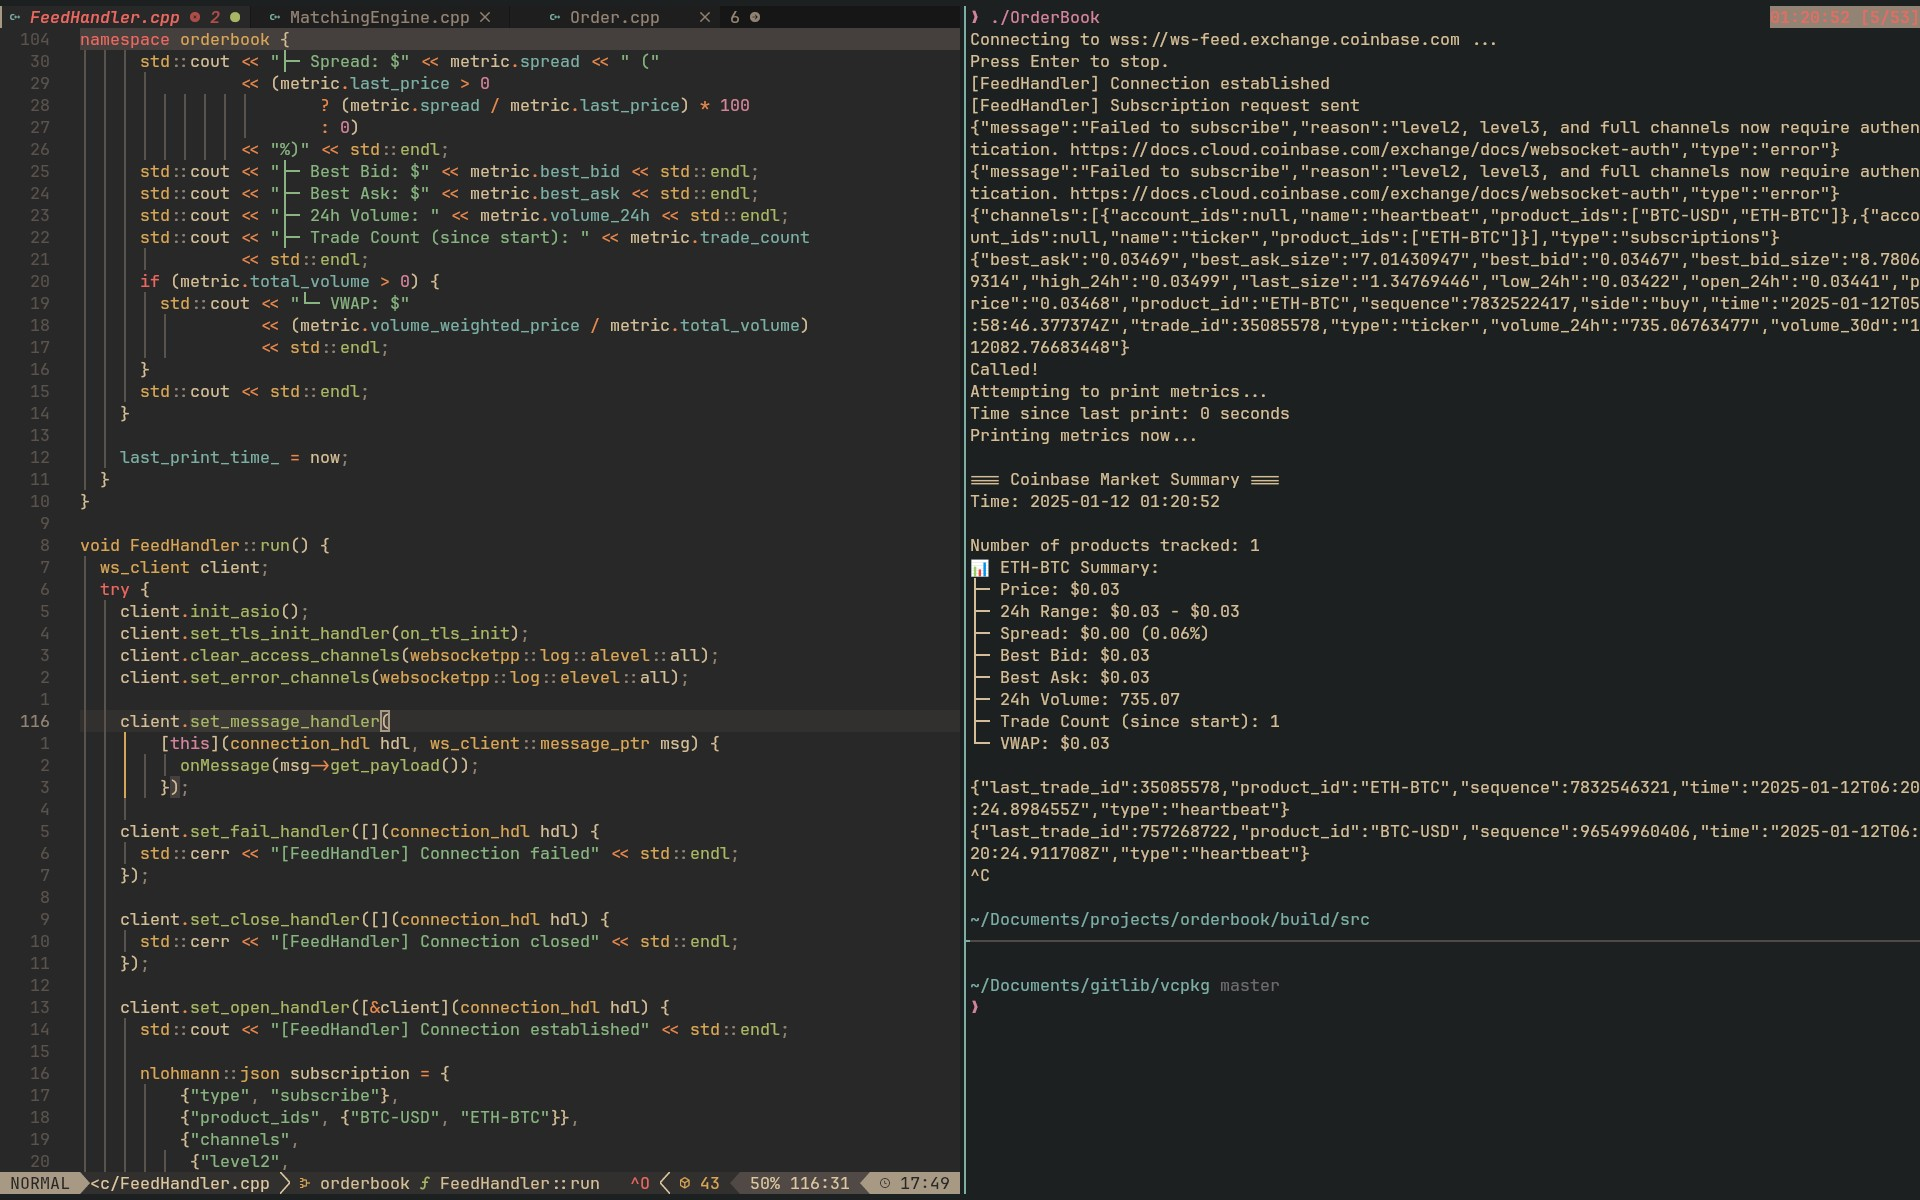
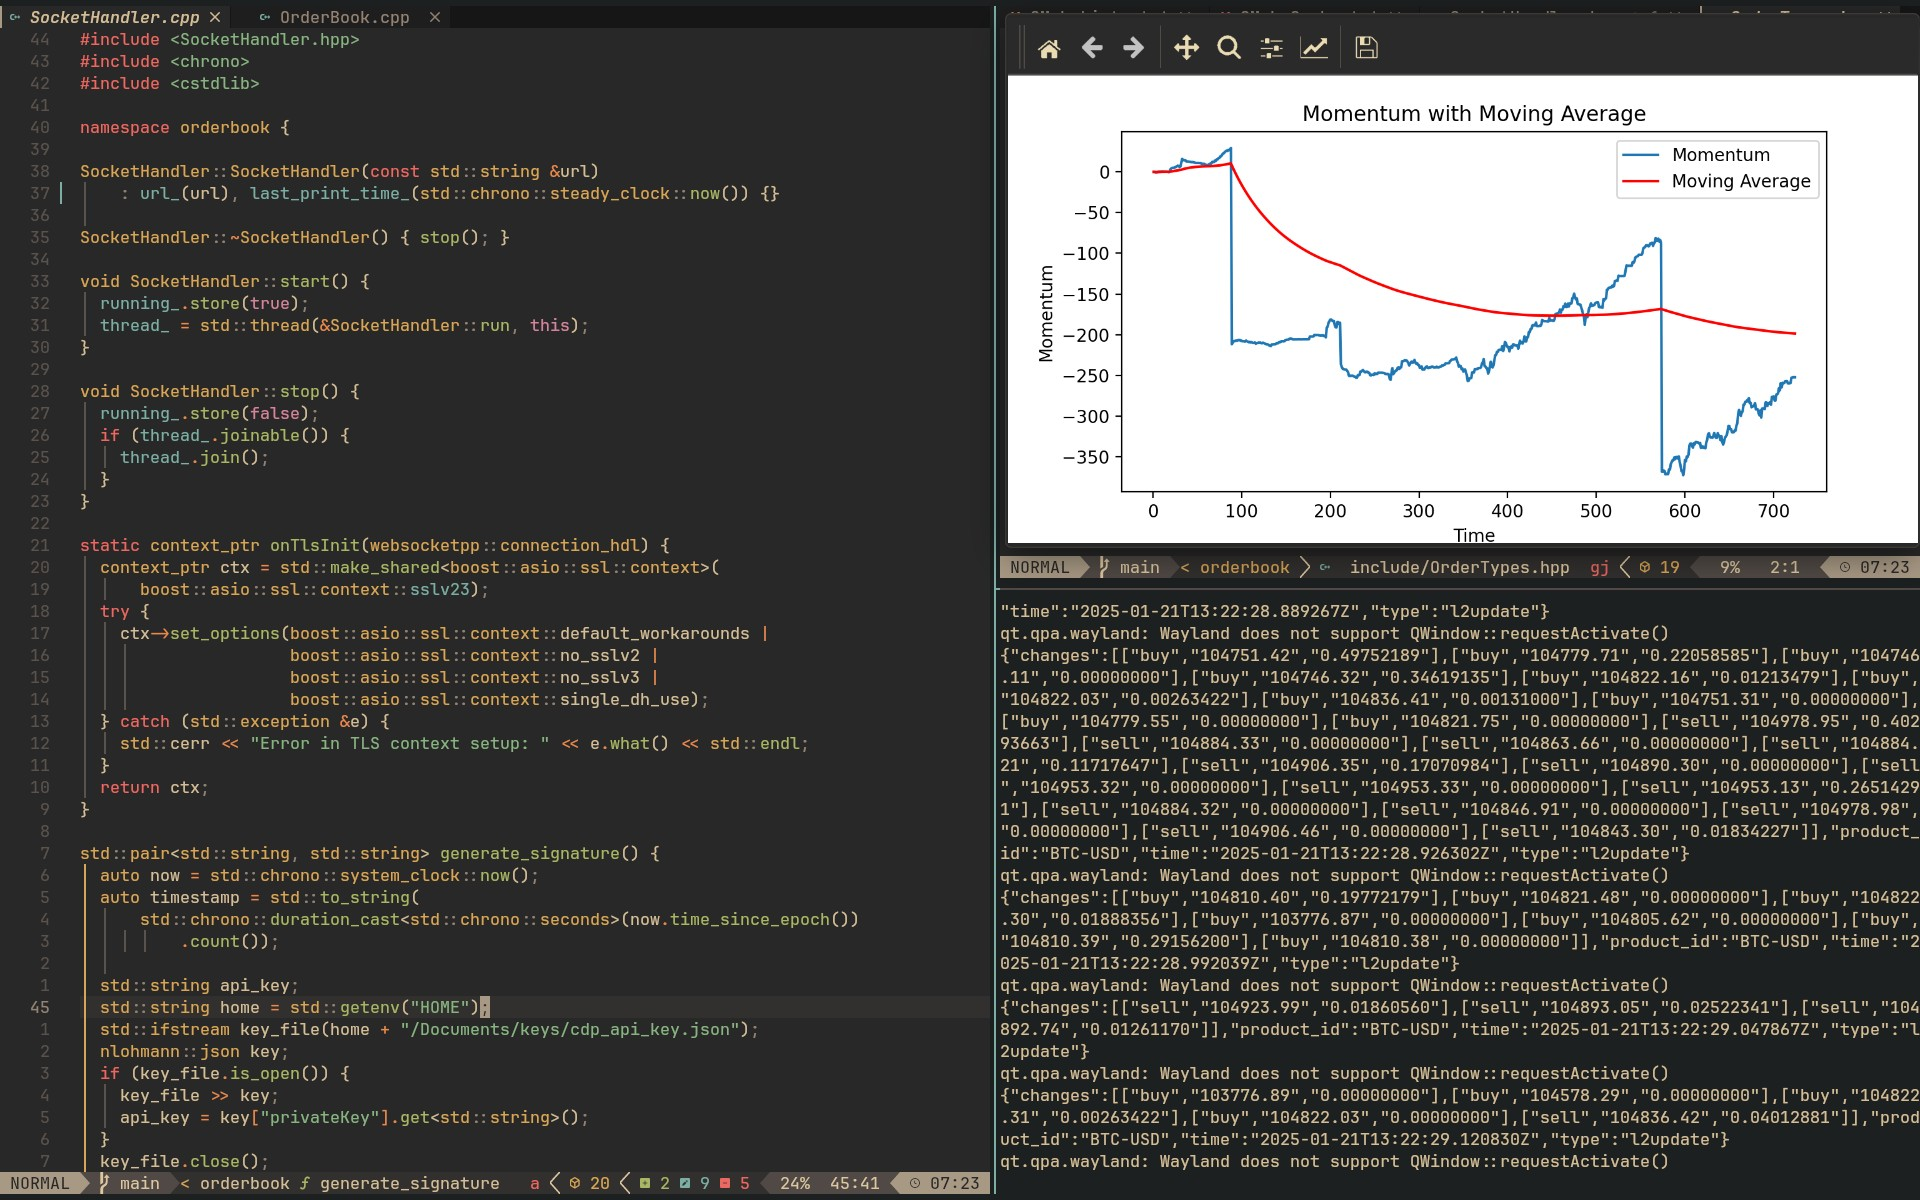
updated info

diff --git a/src/components/Projects/projects_data.tsx b/src/components/Projects/projects_data.tsx
@@ -5,8 +5,15 @@ const projectData: Project[] = [
     id: 2,
     title: "L1 Orderbook",
     text: "An orderbook written in C++ that allows the real time visualization of market data, using websockets to maintain low-latency updates for data. Right now it's configured to use the Coinbase api, given how expensive feed data for actual financial instruments are. Currently I'm working on adding a order matching system in order to learn about how markets fufill orders and trades. Uses multithreading to handle both listening to the websocket connection and for writing to the orderbook.",
-    link: "http://github.com/jackdzi/feederizer",
+    link: "http://github.com/jackdzi/orderbook",
     image: "/orderbook.jpg"
+  },
+  {
+    id: 3,
+    title: "Simple CNN",
+    text: "A convolutional neural network written in C++ that classifies images by number based on the MNIST dataset, all using the standard library. The model class constructor allows for different type of models to be created, giving full control over how it works. Implements many different optimizations such as a batch gradient option, a momentum/velocity option, learning rate decay, and randomized pixel dropout. The website is hosted using a simple javascript backend which connects the C++ components to the frontend, which is written in Typescript, using the React framework. Great project to learn about the basic algorithms behind modern MLP and convolutional models.",
+    link: "https://simplecnn-production.up.railway.app/",
+    image: "/cnn.jpg",
   },
   {
     id: 4,
@@ -19,16 +26,9 @@ const projectData: Project[] = [
     id: 1,
     title: "CSV Analyzer",
     text: "A data visualization application that converts text columns from a CSV file into embeddings within a vector space using a transformer language model. It clusters similar vectors (CSV rows) via K-means clustering. Utilizing the UMAP algorithm, these embeddings are dimensionally reduced to two dimensions in order to be plotted. Users can explore rows within each cluster, showing how groupings contain related 'ideas'. Uses a pre-trained Hugging Face model for text embedding, Flask for backend server hosting, and React for the frontend interface. Currently trying to implement a way to find the 'most significant' rows of a cluster in order to ease viewing for big datasets, probably using PCA.",
-    link: "http://jackdzi.github.io/startpage",
+    link: "http://github.com/jackdzi/CSVanalysis",
     image: "/csvanalyzer.jpg",
-  },
-  {
-    id: 3,
-    title: "Simple CNN",
-    text: "A convolutional neural network written in C++ that classifies images by number based on the MNIST dataset, all using the standard library. The model class constructor allows for different type of models to be created, giving full control over how it works. Implements many different optimizations such as a batch gradient option, a momentum/velocity option, learning rate decay, and randomized pixel dropout. The website is hosted using a simple javascript backend which connects the C++ components to the frontend, which is written in Typescript, using the React framework. Great project to learn about the basic algorithms behind modern MLP and convolutional models.",
-    link: "http://github.com/jackdzi/SimpleCNN",
-    image: "/cnn.jpg",
-  },
+  }
   // {
   //   id: 2,
   //   title: "Carrea Website",

diff --git a/src/components/About/About.tsx b/src/components/About/About.tsx
@@ -33,7 +33,7 @@ const About: React.FC = () => {
   }, [controls, inView]);
 
   return (
-    <div className="flex items-center justify-center h-[80vh] mb-[-10px]">
+    <div className="flex items-center justify-center mt-16 h-[80vh] mb-[20px]">
       <motion.div
         ref={ref}
         animate={controls}
@@ -72,8 +72,8 @@ const About: React.FC = () => {
                 <div className="card-content p-4 font-mono text-black dark:text-white text-center ">
                   I'm a student at Rice University with a keen interest in fullstack
                   development looking to gain experience working on real life,
-                  impactful projects. I have experience working with C++, GoLang, Python, and Typescript/Javascript. I love anything technology, and I enjoy learning and using different types of software/frameworks, such as Neovim, Linux, React, and Tailwind CSS. In my free time, I enjoy reading, solving puzzles, and
-                  playing electric guitar. Currently I'm reading the collected works of Anne Sexton, and I'm trying to learn how to play Angeles by Elliot Smith.
+                  impactful projects. I have experience working with C++, GoLang, Python, Typescript/Javascript, R, and SQL. I love anything technology, and I enjoy learning and using different types of software, such as Latex, Neovim, Linux, and React. In my free time, I like to read, solve puzzles, and
+                  play electric guitar. Currently I'm reading To The Lighthouse by Virginia Woolf, and I'm trying to learn how to play Angeles by Elliot Smith.
                 </div>
               )}
             </div>
